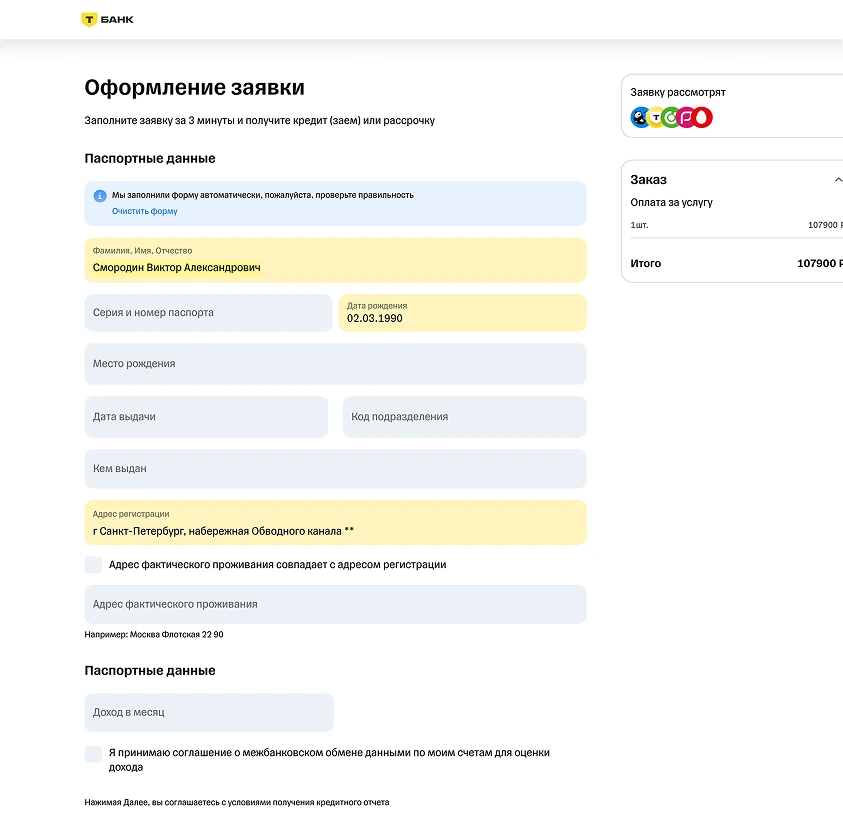
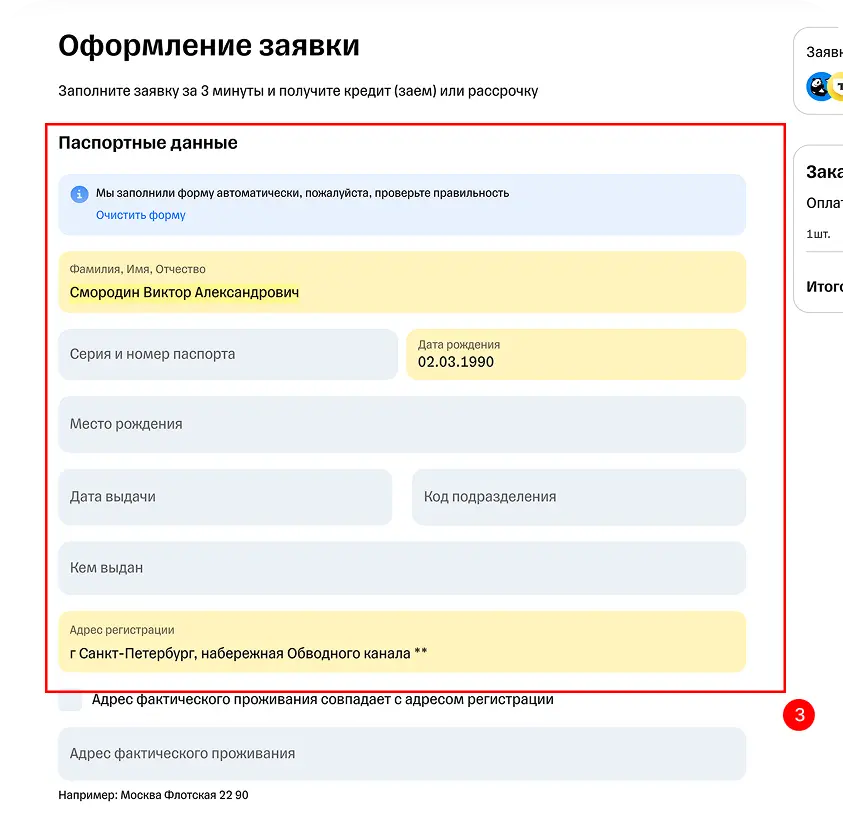
Reduce TBank carousel image shadows to match proportional size of images

diff --git a/src/cases/tbank/TBankCase.tsx b/src/cases/tbank/TBankCase.tsx
@@ -60,6 +60,30 @@ export default function TBankCase({
     setTranslationVariantSlide(Math.round(el.scrollLeft / el.clientWidth));
   }, []);
 
+  const [installmentClaritySlide, setInstallmentClaritySlide] = useState(0);
+  const installmentClarityScrollRef = useRef<HTMLDivElement>(null);
+  const handleInstallmentClarityScroll = useCallback(() => {
+    const el = installmentClarityScrollRef.current;
+    if (!el) return;
+    setInstallmentClaritySlide(Math.round(el.scrollLeft / el.clientWidth));
+  }, []);
+
+  const [docTypesSlide, setDocTypesSlide] = useState(0);
+  const docTypesScrollRef = useRef<HTMLDivElement>(null);
+  const handleDocTypesScroll = useCallback(() => {
+    const el = docTypesScrollRef.current;
+    if (!el) return;
+    setDocTypesSlide(Math.round(el.scrollLeft / el.clientWidth));
+  }, []);
+
+  const [residenceStatusSlide, setResidenceStatusSlide] = useState(0);
+  const residenceStatusScrollRef = useRef<HTMLDivElement>(null);
+  const handleResidenceStatusScroll = useCallback(() => {
+    const el = residenceStatusScrollRef.current;
+    if (!el) return;
+    setResidenceStatusSlide(Math.round(el.scrollLeft / el.clientWidth));
+  }, []);
+
   return (
     <>
             {/* Текущие проблемы формы — T-Bank only */}
@@ -89,7 +113,7 @@ export default function TBankCase({
                             loading="lazy"
                             src={publicUrl(`/covers/T-bank/Mobile/${n}.webp`)}
                             alt={locale === 'ru' ? `Проблемы формы — часть ${n}` : `Form issues — part ${n}`}
-                            style={{ width: '281px', height: '271px', objectFit: 'contain', display: 'block', borderRadius: '20px', boxShadow: '0 8px 28px rgba(0,0,0,0.10)' }}
+                            style={{ width: '281px', height: '271px', objectFit: 'contain', display: 'block', borderRadius: '20px', boxShadow: '0 4px 16px rgba(0,0,0,0.08)' }}
                           />
                         </div>
                       ))}
@@ -454,7 +478,7 @@ export default function TBankCase({
                             loading="lazy"
                             src={publicUrl(`/covers/T-bank/Mobile/${n}.webp`)}
                             alt={locale === 'ru' ? `Результаты Drop-off — часть ${n === 4 ? 1 : 2}` : `Drop-off results — part ${n === 4 ? 1 : 2}`}
-                            style={{ width: '281px', height: '271px', objectFit: 'contain', display: 'block', borderRadius: '20px', boxShadow: '0 8px 28px rgba(0,0,0,0.10)' }}
+                            style={{ width: '281px', height: '271px', objectFit: 'contain', display: 'block', borderRadius: '20px', boxShadow: '0 4px 16px rgba(0,0,0,0.08)' }}
                           />
                         </div>
                       ))}
@@ -636,8 +660,23 @@ export default function TBankCase({
                       : typograph('If the application form and bank communications are only available in Russian, some foreign users may struggle to complete the form. This leads to an increased drop-off rate. In my solution, I expanded localization for the segment vulnerable to limited Russian language comprehension')}
                   </p>
                 </div>
+                {/* Mobile: phone mockup */}
+                <div className="md:hidden" style={{ marginTop: 16 }}>
+                  <div
+                    className="w-full bg-[#F2F2F2] overflow-hidden flex items-center justify-center"
+                    style={{ height: '313px', borderRadius: 'var(--radius-media)' }}
+                  >
+                    <img
+                      loading="lazy"
+                      src={publicUrl('/covers/T-bank/Mobile/7.webp')}
+                      alt={locale === 'ru' ? 'Локализация' : 'Localization'}
+                      style={{ width: '281px', height: '271px', objectFit: 'contain', display: 'block', borderRadius: '20px', boxShadow: '0 4px 16px rgba(0,0,0,0.08)' }}
+                    />
+                  </div>
+                </div>
+                {/* Desktop */}
                 <div
-                  className="w-full rounded-[var(--radius-media)] overflow-hidden"
+                  className="hidden md:block w-full rounded-[var(--radius-media)] overflow-hidden"
                   style={{ marginTop: 16 }}
                 >
                   <div className="relative w-full overflow-hidden leading-none">
@@ -656,38 +695,39 @@ export default function TBankCase({
                 <h2 className="font-sans text-[24px] font-bold leading-[1.3] text-[var(--color-text-primary)]">
                   {locale === 'ru' ? 'Варианты перевода' : 'Translation Variants'}
                 </h2>
-                {/* Mobile: horizontal carousel */}
+                {/* Mobile: phone mockup carousel */}
                 <div className="chip-image-gap md:hidden">
                   <div
-                    ref={translationVariantsScrollRef}
-                    onScroll={handleTranslationVariantsScroll}
-                    className="no-scrollbar flex flex-row flex-nowrap overflow-x-auto snap-x snap-mandatory gap-[12px]"
-                    style={{ padding: '0 16px', WebkitOverflowScrolling: 'touch', touchAction: 'pan-x' }}
+                    className="w-full bg-[#F2F2F2] overflow-hidden"
+                    style={{ height: '313px', borderRadius: 'var(--radius-media)' }}
                   >
-                    {TBANK_TRANSLATION_VARIANTS.map(({ label, src }) => (
-                      <div key={label} className="snap-center shrink-0" style={{ width: 'calc(100vw - 64px)' }}>
-                        <div className="w-full rounded-[var(--radius-media)] overflow-hidden bg-[#F5F5F5] h-[210px] flex items-center justify-center">
-                          <img loading="lazy"
-                            src={src}
-                            alt={label}
-                            draggable={false}
-                            className="block object-contain"
-                            style={{ maxWidth: '90%', maxHeight: '100%' }}
+                    <div
+                      ref={translationVariantsScrollRef}
+                      onScroll={handleTranslationVariantsScroll}
+                      className="flex h-full overflow-x-auto snap-x snap-mandatory no-scrollbar"
+                    >
+                      {[8, 9, 10].map((n) => (
+                        <div key={n} className="snap-center flex-shrink-0 w-full h-full flex items-center justify-center">
+                          <img
+                            loading="lazy"
+                            src={publicUrl(`/covers/T-bank/Mobile/${n}.webp`)}
+                            alt={locale === 'ru' ? `Варианты локализации — ${n}` : `Localization variant — ${n}`}
+                            style={{ width: '281px', height: '271px', objectFit: 'contain', display: 'block', borderRadius: '20px', boxShadow: '0 4px 16px rgba(0,0,0,0.08)' }}
                           />
                         </div>
-                      </div>
-                    ))}
+                      ))}
+                    </div>
                   </div>
                   <div className="flex items-center justify-center gap-[6px]" style={{ marginTop: 12 }}>
-                    {TBANK_TRANSLATION_VARIANTS.map((_, idx) => (
+                    {[0, 1, 2].map((i) => (
                       <div
-                        key={idx}
+                        key={i}
                         style={{
                           width: 6,
                           height: 6,
                           borderRadius: '50%',
                           backgroundColor: '#1a1a1a',
-                          opacity: translationVariantSlide === idx ? 1 : 0.2,
+                          opacity: translationVariantSlide === i ? 1 : 0.2,
                           transition: 'opacity 200ms ease',
                           flexShrink: 0,
                         }}
@@ -722,8 +762,49 @@ export default function TBankCase({
                     ? typograph('Сейчас условия и\u00A0вероятность одобрения рассрочки для иностранных граждан с\u00A0разными типами документов остаются недостаточно прозрачными. Чтобы узнать больше информации об\u00A0условиях в\u00A0Т-банке нужно искать подходящие статьи вручную. Отдельный раздел с\u00A0переходом на\u00A0официальные источники поможет снизить риск дезинформации и\u00A0следить за\u00A0актуальными условиями')
                     : typograph('Currently, the conditions and likelihood of installment approval for foreign citizens with different document types remain insufficiently transparent. To learn more about the conditions at T-Bank, one needs to search for relevant articles manually. A dedicated section with links to official sources will help reduce the risk of misinformation and keep track of current conditions')}
                 </p>
+                {/* Mobile: carousel with 11, 12 */}
+                <div className="md:hidden" style={{ marginTop: 16 }}>
+                  <div
+                    className="w-full bg-[#F2F2F2] overflow-hidden"
+                    style={{ height: '313px', borderRadius: 'var(--radius-media)' }}
+                  >
+                    <div
+                      ref={installmentClarityScrollRef}
+                      onScroll={handleInstallmentClarityScroll}
+                      className="flex h-full overflow-x-auto snap-x snap-mandatory no-scrollbar"
+                    >
+                      {[11, 12].map((n) => (
+                        <div key={n} className="snap-center flex-shrink-0 w-full h-full flex items-center justify-center">
+                          <img
+                            loading="lazy"
+                            src={publicUrl(`/covers/T-bank/Mobile/${n}.webp`)}
+                            alt={locale === 'ru' ? `Получение рассрочки — ${n}` : `Installment clarity — ${n}`}
+                            style={{ width: '281px', height: '271px', objectFit: 'contain', display: 'block', borderRadius: '20px', boxShadow: '0 4px 16px rgba(0,0,0,0.08)' }}
+                          />
+                        </div>
+                      ))}
+                    </div>
+                  </div>
+                  <div className="flex items-center justify-center gap-[6px]" style={{ marginTop: 12 }}>
+                    {[0, 1].map((i) => (
+                      <div
+                        key={i}
+                        style={{
+                          width: 6,
+                          height: 6,
+                          borderRadius: '50%',
+                          backgroundColor: '#1a1a1a',
+                          opacity: installmentClaritySlide === i ? 1 : 0.2,
+                          transition: 'opacity 200ms ease',
+                          flexShrink: 0,
+                        }}
+                      />
+                    ))}
+                  </div>
+                </div>
+                {/* Desktop */}
                 <div
-                  className="w-full rounded-[var(--radius-media)] overflow-hidden"
+                  className="hidden md:block w-full rounded-[var(--radius-media)] overflow-hidden"
                   style={{ marginTop: 16 }}
                 >
                   <div className="relative w-full overflow-hidden leading-none">
@@ -735,7 +816,7 @@ export default function TBankCase({
                   </div>
                 </div>
                 <div
-                  className="w-full rounded-[var(--radius-media)] overflow-hidden"
+                  className="hidden md:block w-full rounded-[var(--radius-media)] overflow-hidden"
                   style={{ marginTop: 16 }}
                 >
                   <div className="relative w-full overflow-hidden leading-none">
@@ -751,8 +832,23 @@ export default function TBankCase({
                     ? typograph('При переходе в условиях «Подробнее про получение кредита (заема) или рассрочки» пользователь продолжает путь с\u00A0веб-страницы, где получает информацию о\u00A0кредитных продуктах. В\u00A0рамках решения кейса я\u00A0расширила языковую поддержку веб-страницы, синхронизировав ее с\u00A0формой оформления')
                     : typograph('When navigating to the conditions for "Foreigners", the user continues their journey from a\u00A0web page where they receive information about credit products. As part of the case solution, I\u00A0expanded the language support of the web page, synchronizing it with the application form')}
                 </p>
+                {/* Mobile: phone mockup for 13 */}
+                <div className="md:hidden" style={{ marginTop: 16 }}>
+                  <div
+                    className="w-full bg-[#F2F2F2] overflow-hidden flex items-center justify-center"
+                    style={{ height: '313px', borderRadius: 'var(--radius-media)' }}
+                  >
+                    <img
+                      loading="lazy"
+                      src={publicUrl('/covers/T-bank/Mobile/13.webp')}
+                      alt={locale === 'ru' ? 'Расширение языковой поддержки веб-страницы' : 'Web page language support expansion'}
+                      style={{ width: '281px', height: '271px', objectFit: 'contain', display: 'block', borderRadius: '20px', boxShadow: '0 4px 16px rgba(0,0,0,0.08)' }}
+                    />
+                  </div>
+                </div>
+                {/* Desktop */}
                 <div
-                  className="w-full rounded-[var(--radius-media)] overflow-hidden shadow-[0_0_6px_rgba(0,0,0,0.11)]"
+                  className="hidden md:block w-full rounded-[var(--radius-media)] overflow-hidden shadow-[0_0_6px_rgba(0,0,0,0.11)]"
                   style={{ marginTop: 16 }}
                 >
                   <div className="relative w-full overflow-hidden leading-none">
@@ -783,8 +879,23 @@ export default function TBankCase({
                       : typograph('Splitting the data collection process into 4 logical stages will help reduce cognitive load and increase application completion')}
                   </p>
                 </div>
+                {/* Mobile: phone mockup for 14 */}
+                <div className="md:hidden" style={{ marginTop: 16 }}>
+                  <div
+                    className="w-full bg-[#F2F2F2] overflow-hidden flex items-center justify-center"
+                    style={{ height: '313px', borderRadius: 'var(--radius-media)' }}
+                  >
+                    <img
+                      loading="lazy"
+                      src={publicUrl('/covers/T-bank/Mobile/14.webp')}
+                      alt={locale === 'ru' ? 'Пошаговый индикатор оформления заявки' : 'Step-by-Step Application Progress Indicator'}
+                      style={{ width: '281px', height: '271px', objectFit: 'contain', display: 'block', borderRadius: '20px', boxShadow: '0 4px 16px rgba(0,0,0,0.08)' }}
+                    />
+                  </div>
+                </div>
+                {/* Desktop */}
                 <div
-                  className="w-full rounded-[var(--radius-media)] overflow-hidden shadow-[0_0_6px_rgba(0,0,0,0.11)] leading-none"
+                  className="hidden md:block w-full rounded-[var(--radius-media)] overflow-hidden shadow-[0_0_6px_rgba(0,0,0,0.11)] leading-none"
                   style={{ marginTop: 16 }}
                 >
                   <img loading="lazy"
@@ -805,8 +916,49 @@ export default function TBankCase({
                     ? typograph('Разные типы документов требуют разных данных для заполнения. Если форма будет предусматривать больше вариантов ввода документов и\u00A0стран, пользователи смогут корректно заполнить анкету с\u00A0первого раза')
                     : typograph('Different document types require different data to fill in. If the form accommodates more document and country input options, users will be able to correctly complete the application on the first attempt')}
                 </p>
+                {/* Mobile: carousel with 15, 16 */}
+                <div className="md:hidden" style={{ marginTop: 16 }}>
+                  <div
+                    className="w-full bg-[#F2F2F2] overflow-hidden"
+                    style={{ height: '313px', borderRadius: 'var(--radius-media)' }}
+                  >
+                    <div
+                      ref={docTypesScrollRef}
+                      onScroll={handleDocTypesScroll}
+                      className="flex h-full overflow-x-auto snap-x snap-mandatory no-scrollbar"
+                    >
+                      {[15, 16].map((n) => (
+                        <div key={n} className="snap-center flex-shrink-0 w-full h-full flex items-center justify-center">
+                          <img
+                            loading="lazy"
+                            src={publicUrl(`/covers/T-bank/Mobile/${n}.webp`)}
+                            alt={locale === 'ru' ? `Расширение типов документов — ${n}` : `Document types expansion — ${n}`}
+                            style={{ width: '281px', height: '271px', objectFit: 'contain', display: 'block', borderRadius: '20px', boxShadow: '0 4px 16px rgba(0,0,0,0.08)' }}
+                          />
+                        </div>
+                      ))}
+                    </div>
+                  </div>
+                  <div className="flex items-center justify-center gap-[6px]" style={{ marginTop: 12 }}>
+                    {[0, 1].map((i) => (
+                      <div
+                        key={i}
+                        style={{
+                          width: 6,
+                          height: 6,
+                          borderRadius: '50%',
+                          backgroundColor: '#1a1a1a',
+                          opacity: docTypesSlide === i ? 1 : 0.2,
+                          transition: 'opacity 200ms ease',
+                          flexShrink: 0,
+                        }}
+                      />
+                    ))}
+                  </div>
+                </div>
+                {/* Desktop */}
                 <div
-                  className="w-full rounded-[var(--radius-media)] overflow-hidden shadow-[0_0_6px_rgba(0,0,0,0.11)] leading-none"
+                  className="hidden md:block w-full rounded-[var(--radius-media)] overflow-hidden shadow-[0_0_6px_rgba(0,0,0,0.11)] leading-none"
                   style={{ marginTop: 16 }}
                 >
                   <img loading="lazy"
@@ -816,7 +968,7 @@ export default function TBankCase({
                   />
                 </div>
                 <div
-                  className="w-full rounded-[var(--radius-media)] overflow-hidden shadow-[0_0_6px_rgba(0,0,0,0.11)] leading-none mt-[16px] md:mt-[24px]"
+                  className="hidden md:block w-full rounded-[var(--radius-media)] overflow-hidden shadow-[0_0_6px_rgba(0,0,0,0.11)] leading-none mt-[24px]"
                 >
                   <img loading="lazy"
                     src={publicUrl('/covers/T-bank/10.webp')}
@@ -838,8 +990,61 @@ export default function TBankCase({
                       : typograph('Foreign users are more likely to receive rejections due to insufficient data for assessing their legal status and residency stability. Adding a long-term residency status document can reduce uncertainty in scoring, increase the likelihood of application approval, and lower bank risks by confirming the client\u2019s long-term status')}
                   </p>
                 </div>
+                {/* Mobile: carousel with 17, 18 (ВНЖ), 19 (РВП) */}
+                <div className="md:hidden" style={{ marginTop: 16 }}>
+                  <div
+                    className="w-full bg-[#F2F2F2] overflow-hidden"
+                    style={{ height: '313px', borderRadius: 'var(--radius-media)' }}
+                  >
+                    <div
+                      ref={residenceStatusScrollRef}
+                      onScroll={handleResidenceStatusScroll}
+                      className="flex h-full overflow-x-auto snap-x snap-mandatory no-scrollbar"
+                    >
+                      {[17, 18, 19].map((n) => (
+                        <div key={n} className="snap-center flex-shrink-0 w-full h-full flex items-center justify-center">
+                          <img
+                            loading="lazy"
+                            src={publicUrl(`/covers/T-bank/Mobile/${n}.webp`)}
+                            alt={locale === 'ru' ? `Статус пребывания — ${n}` : `Residence Status — ${n}`}
+                            style={{ width: '281px', height: '271px', objectFit: 'contain', display: 'block', borderRadius: '20px', boxShadow: '0 4px 16px rgba(0,0,0,0.08)' }}
+                          />
+                        </div>
+                      ))}
+                    </div>
+                  </div>
+                  <div className="flex items-center justify-center gap-[6px]" style={{ marginTop: 12 }}>
+                    {[0, 1, 2].map((i) => (
+                      <div
+                        key={i}
+                        style={{
+                          width: 6,
+                          height: 6,
+                          borderRadius: '50%',
+                          backgroundColor: '#1a1a1a',
+                          opacity: residenceStatusSlide === i ? 1 : 0.2,
+                          transition: 'opacity 200ms ease',
+                          flexShrink: 0,
+                        }}
+                      />
+                    ))}
+                  </div>
+                  <p
+                    className="text-center font-medium"
+                    style={{
+                      marginTop: 8,
+                      fontSize: 14,
+                      color: '#B0B0B0',
+                      fontFamily: 'Inter, sans-serif',
+                      minHeight: '20px',
+                    }}
+                  >
+                    {residenceStatusSlide === 1 ? 'Форма с ВНЖ' : residenceStatusSlide === 2 ? 'Форма с РВП' : ''}
+                  </p>
+                </div>
+                {/* Desktop */}
                 <div
-                  className="w-full rounded-[var(--radius-media)] overflow-hidden shadow-[0_0_6px_rgba(0,0,0,0.11)] leading-none"
+                  className="hidden md:block w-full rounded-[var(--radius-media)] overflow-hidden shadow-[0_0_6px_rgba(0,0,0,0.11)] leading-none"
                   style={{ marginTop: 16 }}
                 >
                   <img loading="lazy"
@@ -849,7 +1054,7 @@ export default function TBankCase({
                   />
                 </div>
                 <div
-                  className="w-full rounded-[var(--radius-media)] overflow-hidden leading-none mt-[16px] md:mt-[24px]"
+                  className="hidden md:block w-full rounded-[var(--radius-media)] overflow-hidden leading-none mt-[24px]"
                 >
                   <img loading="lazy"
                     src={publicUrl('/covers/T-bank/21.webp')}
